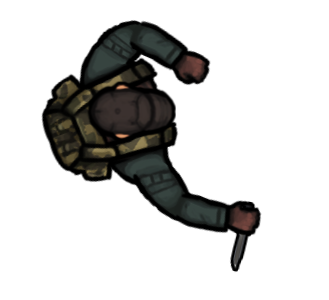
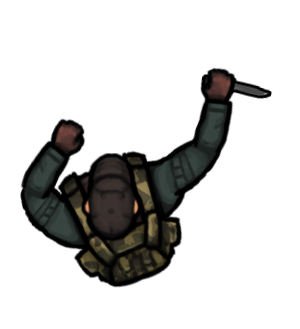
player can now attack

diff --git a/TowerGame/AttackComponent.swift b/TowerGame/AttackComponent.swift
@@ -1,0 +1,39 @@
+//
+//  ControlComponent.swift
+//  TowerGame
+//
+//  Created by Oliver Bammann on 25.05.16.
+//  Copyright © 2016 Oliver Bammann. All rights reserved.
+//
+
+import SpriteKit
+import GameplayKit
+
+class AttackComponent: GKComponent {
+    
+    var player: SKSpriteNode
+    var playerAttackFrames : [SKTexture]!
+    
+    init(player: SKSpriteNode) {
+        self.player = player
+        
+        let playerAnimatedAtlas = SKTextureAtlas(named: "playerKnifeAttack")
+        var attackFrames = [SKTexture]()
+        
+        let numImages = playerAnimatedAtlas.textureNames.count
+        for i in 0 ..< numImages {
+            let playerTextureName = "survivor-meleeattack_knife_\(i)"
+            attackFrames.append(playerAnimatedAtlas.textureNamed(playerTextureName))
+        }
+        playerAttackFrames = attackFrames
+        let firstFrame = playerAttackFrames[0]
+    }
+    
+    func attack(){
+        player.runAction(SKAction.animateWithTextures(self.playerAttackFrames,
+            timePerFrame: 0.08,
+            resize: false,
+            restore: true))
+            
+    }
+}

diff --git a/TowerGame/GameScene.swift b/TowerGame/GameScene.swift
@@ -57,6 +57,18 @@ class GameScene: SKScene, SKPhysicsContactDelegate {
             }
         }
     }
+    override func touchesEnded(touches: Set<UITouch>, withEvent event: UIEvent?) {
+        let location = touches.first!.locationInNode(self)
+        let node = self.nodeAtPoint(location)
+        if (node.name == "attackButton") {
+            for component in player.components{
+                if (component is AttackComponent){
+                    let comp = component as! AttackComponent
+                    comp.attack()
+                }
+            }
+        }
+    }
    
     override func update(currentTime: CFTimeInterval) {
         /* Called before each frame is rendered */

diff --git a/TowerGame/PlayerEntity.swift b/TowerGame/PlayerEntity.swift
@@ -26,6 +26,9 @@ class PlayerEntity: GKEntity {
         let spriteComponent = SpriteComponent(spriteNode: node)
         addComponent(spriteComponent)
         
+        let attackComponent = AttackComponent(player: self.player)
+        addComponent(attackComponent)
+        
         let physicsComponent = PhysicsComponent(node: node)
         addComponent(physicsComponent)
         self.componentForClass(PhysicsComponent.self)?.setPhysicsBodyPlayer()
@@ -57,6 +60,7 @@ class PlayerEntity: GKEntity {
         
         
     }
+    
 
     
     func playerWalk() {
